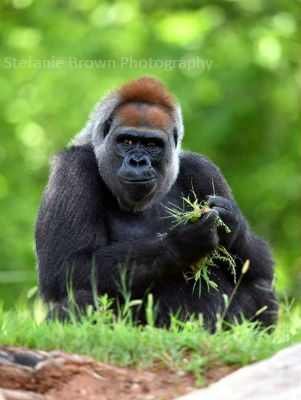
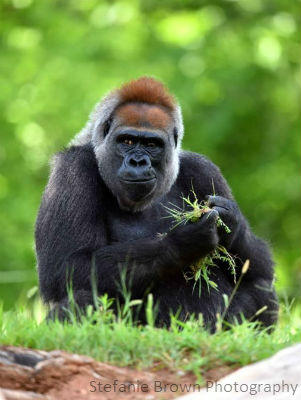
adding watermarks

Changed region(s): [[0.299, 0.93, 0.9867, 0.99], [0.0, 0.12, 0.7176, 0.18]]

diff --git a/index.html b/index.html
@@ -32,7 +32,7 @@
     	<div data-role="controlgroup" data-type="vertical" text-align="center" >
     		<h2 style="text-align:center;">Photography for Your Life</h2>
 			
-		<div id="comslider_in_point_319902" align="center"></div><script type="text/javascript">var oCOMScript319902=document.createElement('script');oCOMScript319902.src="http://commondatastorage.googleapis.com/comslider/target/users/1408028523x6423f5cc10b2ac02a82eee3f9394b3e7/comslider.js?timestamp=1408718845";oCOMScript319902.type='text/javascript';document.getElementsByTagName("head").item(0).appendChild(oCOMScript319902);</script>
+		<div id="comslider_in_point_319902" align="center"></div><script type="text/javascript">var oCOMScript319902=document.createElement('script');oCOMScript319902.src="http://commondatastorage.googleapis.com/comslider/target/users/1408028523x6423f5cc10b2ac02a82eee3f9394b3e7/comslider.js?timestamp=1408895776";oCOMScript319902.type='text/javascript';document.getElementsByTagName("head").item(0).appendChild(oCOMScript319902);</script>
 		
 		<br/><br/>
 		</div>
@@ -69,7 +69,7 @@
 			<img src= "images/galleries_page/sdb_8057w.jpg" height="360"/>
 			<img src= "images/galleries_page/sdb_2008w.jpg" height="360"/>
 			<img src= "images/galleries_page/sdb_9577w.jpg" height="360"/>
-			<img src= "images/galleries_page/gorilla1.1w.jpg" height="360"/>
+			<img src= "images/galleries_page/gorilla1w.jpg" height="360"/>
 			</p>
 		<div data-role="navbar">
 			<ul>
@@ -112,7 +112,7 @@
 		<h2 style="text-align:center;">Weddings</h2>
 		</div>
 		
-		<div id="comslider_in_point_320428" align="center"></div><script type="text/javascript">var oCOMScript320428=document.createElement('script');oCOMScript320428.src="http://commondatastorage.googleapis.com/comslider/target/users/1408080365x75e03cc6758eae9eae5fcea9572bee90/comslider.js?timestamp=1408199445";oCOMScript320428.type='text/javascript';document.getElementsByTagName("head").item(0).appendChild(oCOMScript320428);</script>
+		<div id="comslider_in_point_320428" align="center"></div><script type="text/javascript">var oCOMScript320428=document.createElement('script');oCOMScript320428.src="http://commondatastorage.googleapis.com/comslider/target/users/1408080365x75e03cc6758eae9eae5fcea9572bee90/comslider.js?timestamp=1408897357";oCOMScript320428.type='text/javascript';document.getElementsByTagName("head").item(0).appendChild(oCOMScript320428);</script>
 		<br/><br/>
 		<div data-role="navbar">
 			<ul>
@@ -322,7 +322,7 @@
 	</div>
 		<div data-role="controlgroup" data-type="vertical">
 		
-		<div id="comslider_in_point_319824" align="center"></div><script type="text/javascript">var oCOMScript319824=document.createElement('script');oCOMScript319824.src="http://commondatastorage.googleapis.com/comslider/target/users/1408022827x99d7aac426cc55c22868341f951f092a/comslider.js?timestamp=1408689061";oCOMScript319824.type='text/javascript';document.getElementsByTagName("head").item(0).appendChild(oCOMScript319824);</script>
+		<div id="comslider_in_point_319824" align="center"></div><script type="text/javascript">var oCOMScript319824=document.createElement('script');oCOMScript319824.src="http://commondatastorage.googleapis.com/comslider/target/users/1408022827x99d7aac426cc55c22868341f951f092a/comslider.js?timestamp=1408894687";oCOMScript319824.type='text/javascript';document.getElementsByTagName("head").item(0).appendChild(oCOMScript319824);</script>
 					
 
 		<h3 style="text-align:center;"> Pricing </h3>
